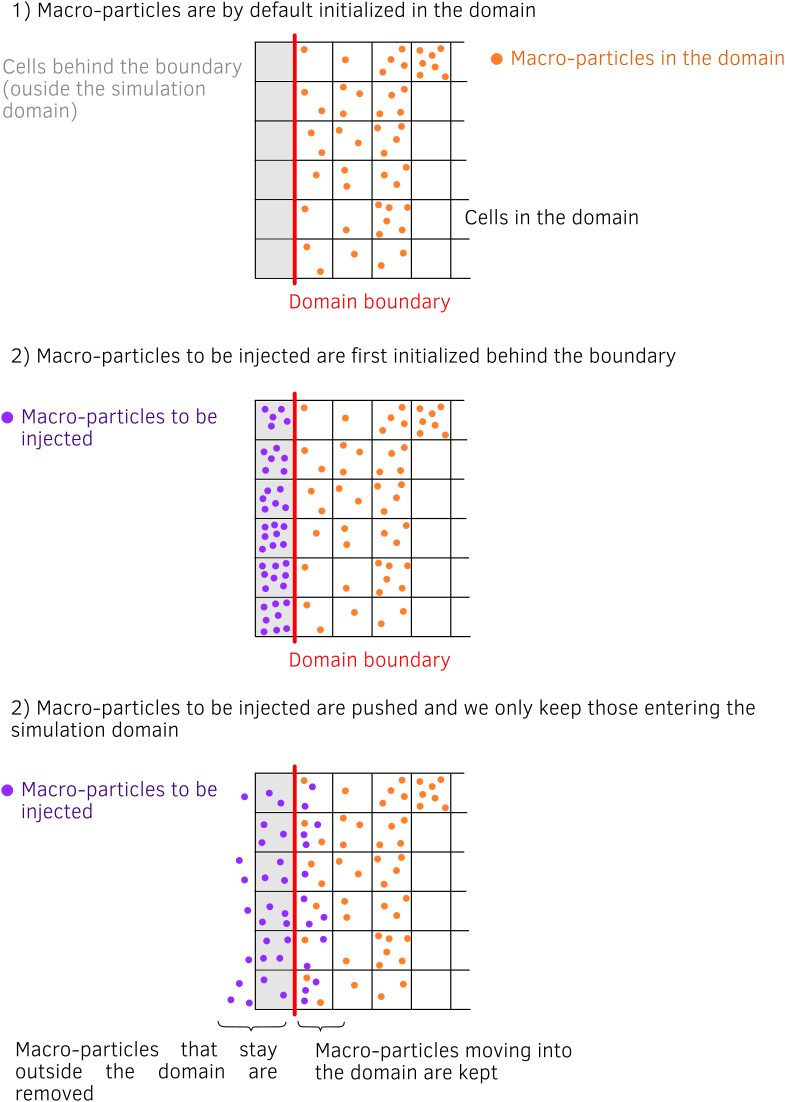
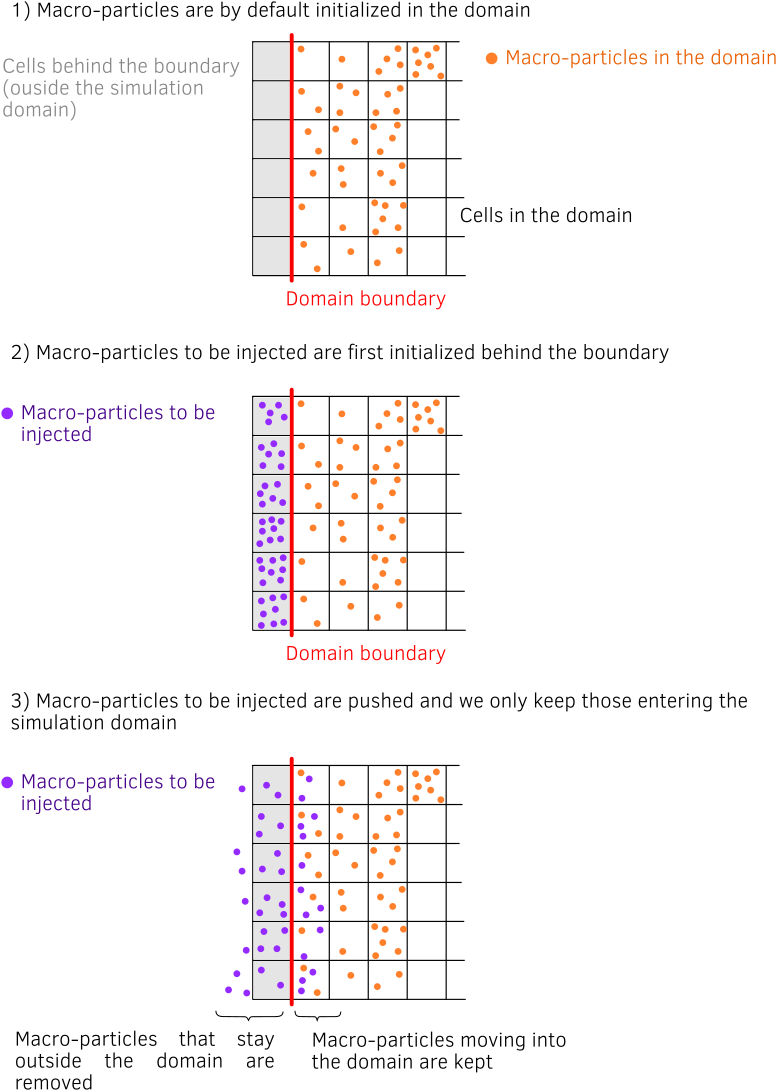
Particle Injector: - Update of the doc

diff --git a/doc/Sphinx/particle_injector.rst b/doc/Sphinx/particle_injector.rst
@@ -8,36 +8,13 @@ into the simulation domain.
 ^^^^^^^^^^^^^^^^^^^^^^^^^^^^^^^^^^^^^^^^^^^^^^^^^^^^^^^^^^^^^^^^^^^^^^^^^^^^^^^^
 
 In the PIC loop structure, the particle injection is located at the end of the process
-after the projection and exchanges.
-
-.. code-block:: ReST
-
-    for each patch:
-        for each species:
-            
-            Interpolate
-            Pusher
-            
-        for each species:
-        
-            Projection
-            
-    Maxwell
-            
-    for each patch:
-        for each species:
-        
-            Exchange finalization
-            Cleaning
-            Particle sorting
-            **Particle injection**
-            
-    Diagnostics
+after the current and charge projection. It is in the third part of the PIc structure after
+the particle sorting and exchange finalization.
             
 Injected macro-particles therefore do not contribute to the current and fields of the current iteration
 but they are taken into account in the diagnostics.
 
-The method implemente in Smilei in shcematicllay shown in :ref:`fig_particle_injector`
+The method implemente in Smilei in schematically shown in :ref:`fig_particle_injector`.
 
 .. _fig_particle_injector:
 
@@ -45,3 +22,13 @@ The method implemente in Smilei in shcematicllay shown in :ref:`fig_particle_inj
     :width: 100%
 
     Description of the particle injection method.
+    
+For each patch near the boundaries, macro-particles for injectors are first initialized behind domain boundaries.
+For the moment, momentum initialization is limited to Maxwellian distributions with a derive.
+Macro-particles are pushed using their momentum of a time step :math:`\Delta t` without fields.
+Macro-particles that stay behind the domain boundary (due to their momentum direction or because they did not
+cross the boundary during this artificial timestep) are not taken into account and removed.
+Macro-particles in the domain are kept and considered injected.
+They are put in the patch list of macro-particles for the next timestep.
+
+    

diff --git a/doc/Sphinx/code_structure.rst b/doc/Sphinx/code_structure.rst
@@ -1,0 +1,23 @@
+.. code-block:: ReST
+
+    for each patch:
+        for each species:
+            
+            Interpolate
+            Pusher
+            
+        for each species:
+        
+            Projection
+            
+    Maxwell
+            
+    for each patch:
+        for each species:
+        
+            Exchange finalization
+            Cleaning
+            Particle sorting
+            Particle injection
+            
+    Diagnostics
